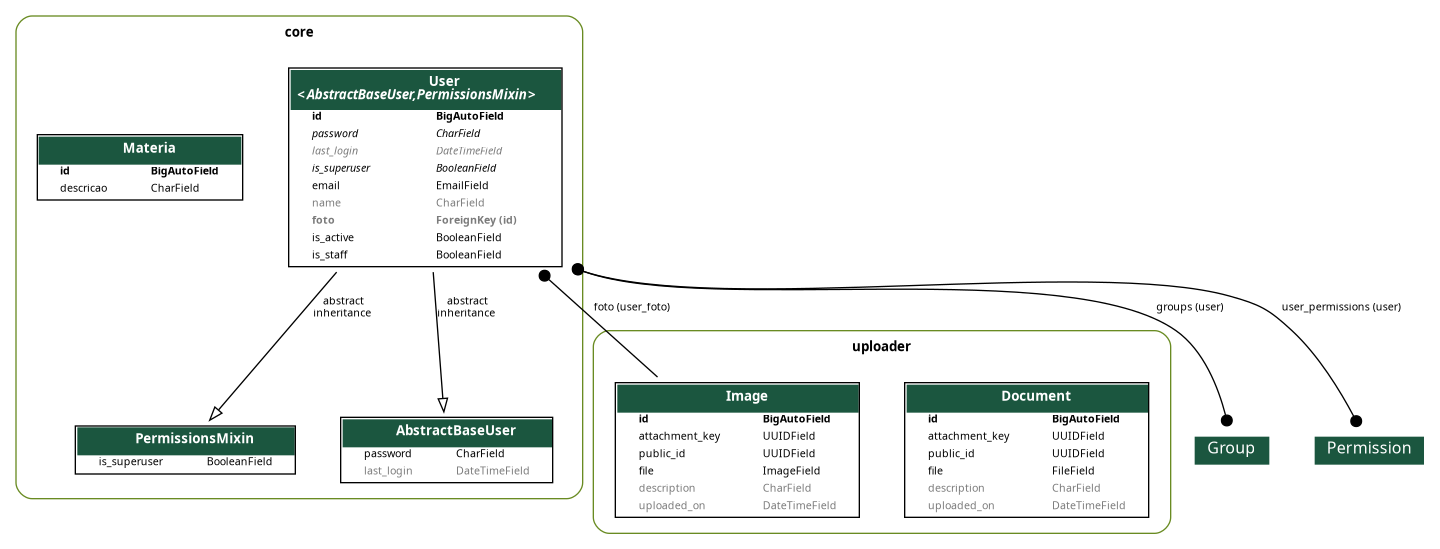
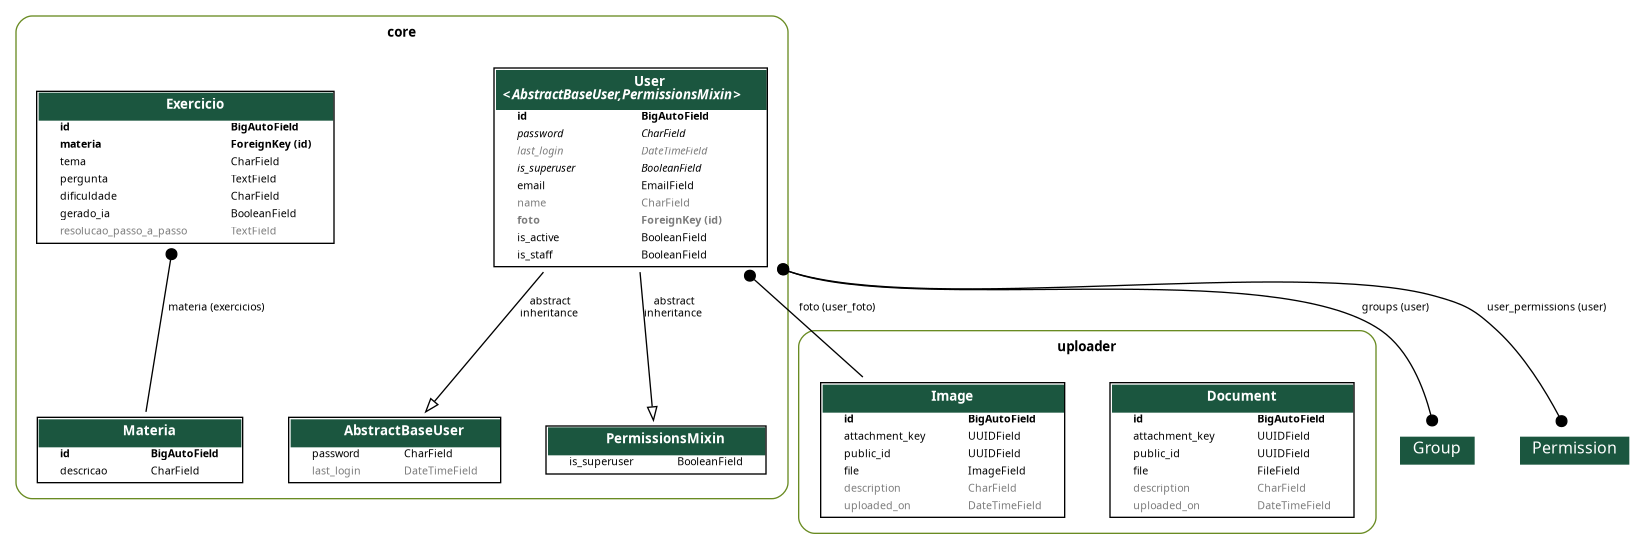
ajustes pdm

diff --git a/core/models/exercicio.py b/core/models/exercicio.py
@@ -1,0 +1,48 @@
+from django.db import models
+
+from .materia import Materia
+
+
+class Exercicio(models.Model):
+
+    DIFICULDADES = [
+        ('facil', 'Fácil'),
+        ('medio', 'Médio'),
+        ('dificil', 'Difícil'),
+    ]
+
+
+    materia = models.ForeignKey(
+        Materia,
+        on_delete=models.CASCADE,
+        related_name='exercicios'
+    )
+
+
+    tema = models.CharField(
+        max_length=100
+    )
+
+
+    pergunta = models.TextField()
+
+
+    dificuldade = models.CharField(
+        max_length=50,
+        choices=DIFICULDADES
+    )
+
+
+    gerado_ia = models.BooleanField(
+        default=False
+    )
+
+
+    resolucao_passo_a_passo = models.TextField(
+        blank=True,
+        null=True
+    )
+
+
+    def __str__(self):
+        return f'{self.materia.descricao} - {self.tema}'

diff --git a/core/migrations/0008_exercicio.py b/core/migrations/0008_exercicio.py
@@ -1,0 +1,26 @@
+# Generated by Django 5.2.15 on 2026-06-19 17:57
+
+import django.db.models.deletion
+from django.db import migrations, models
+
+
+class Migration(migrations.Migration):
+
+    dependencies = [
+        ('core', '0007_user_foto'),
+    ]
+
+    operations = [
+        migrations.CreateModel(
+            name='Exercicio',
+            fields=[
+                ('id', models.BigAutoField(auto_created=True, primary_key=True, serialize=False, verbose_name='ID')),
+                ('tema', models.CharField(max_length=100)),
+                ('pergunta', models.TextField()),
+                ('dificuldade', models.CharField(choices=[('facil', 'Fácil'), ('medio', 'Médio'), ('dificil', 'Difícil')], max_length=50)),
+                ('gerado_ia', models.BooleanField(default=False)),
+                ('resolucao_passo_a_passo', models.TextField(blank=True, null=True)),
+                ('materia', models.ForeignKey(on_delete=django.db.models.deletion.CASCADE, related_name='exercicios', to='core.materia')),
+            ],
+        ),
+    ]

diff --git a/core/models/__init__.py b/core/models/__init__.py
@@ -1,2 +1,3 @@
 from .user import User
 from .materia import Materia
+from .exercicio import Exercicio